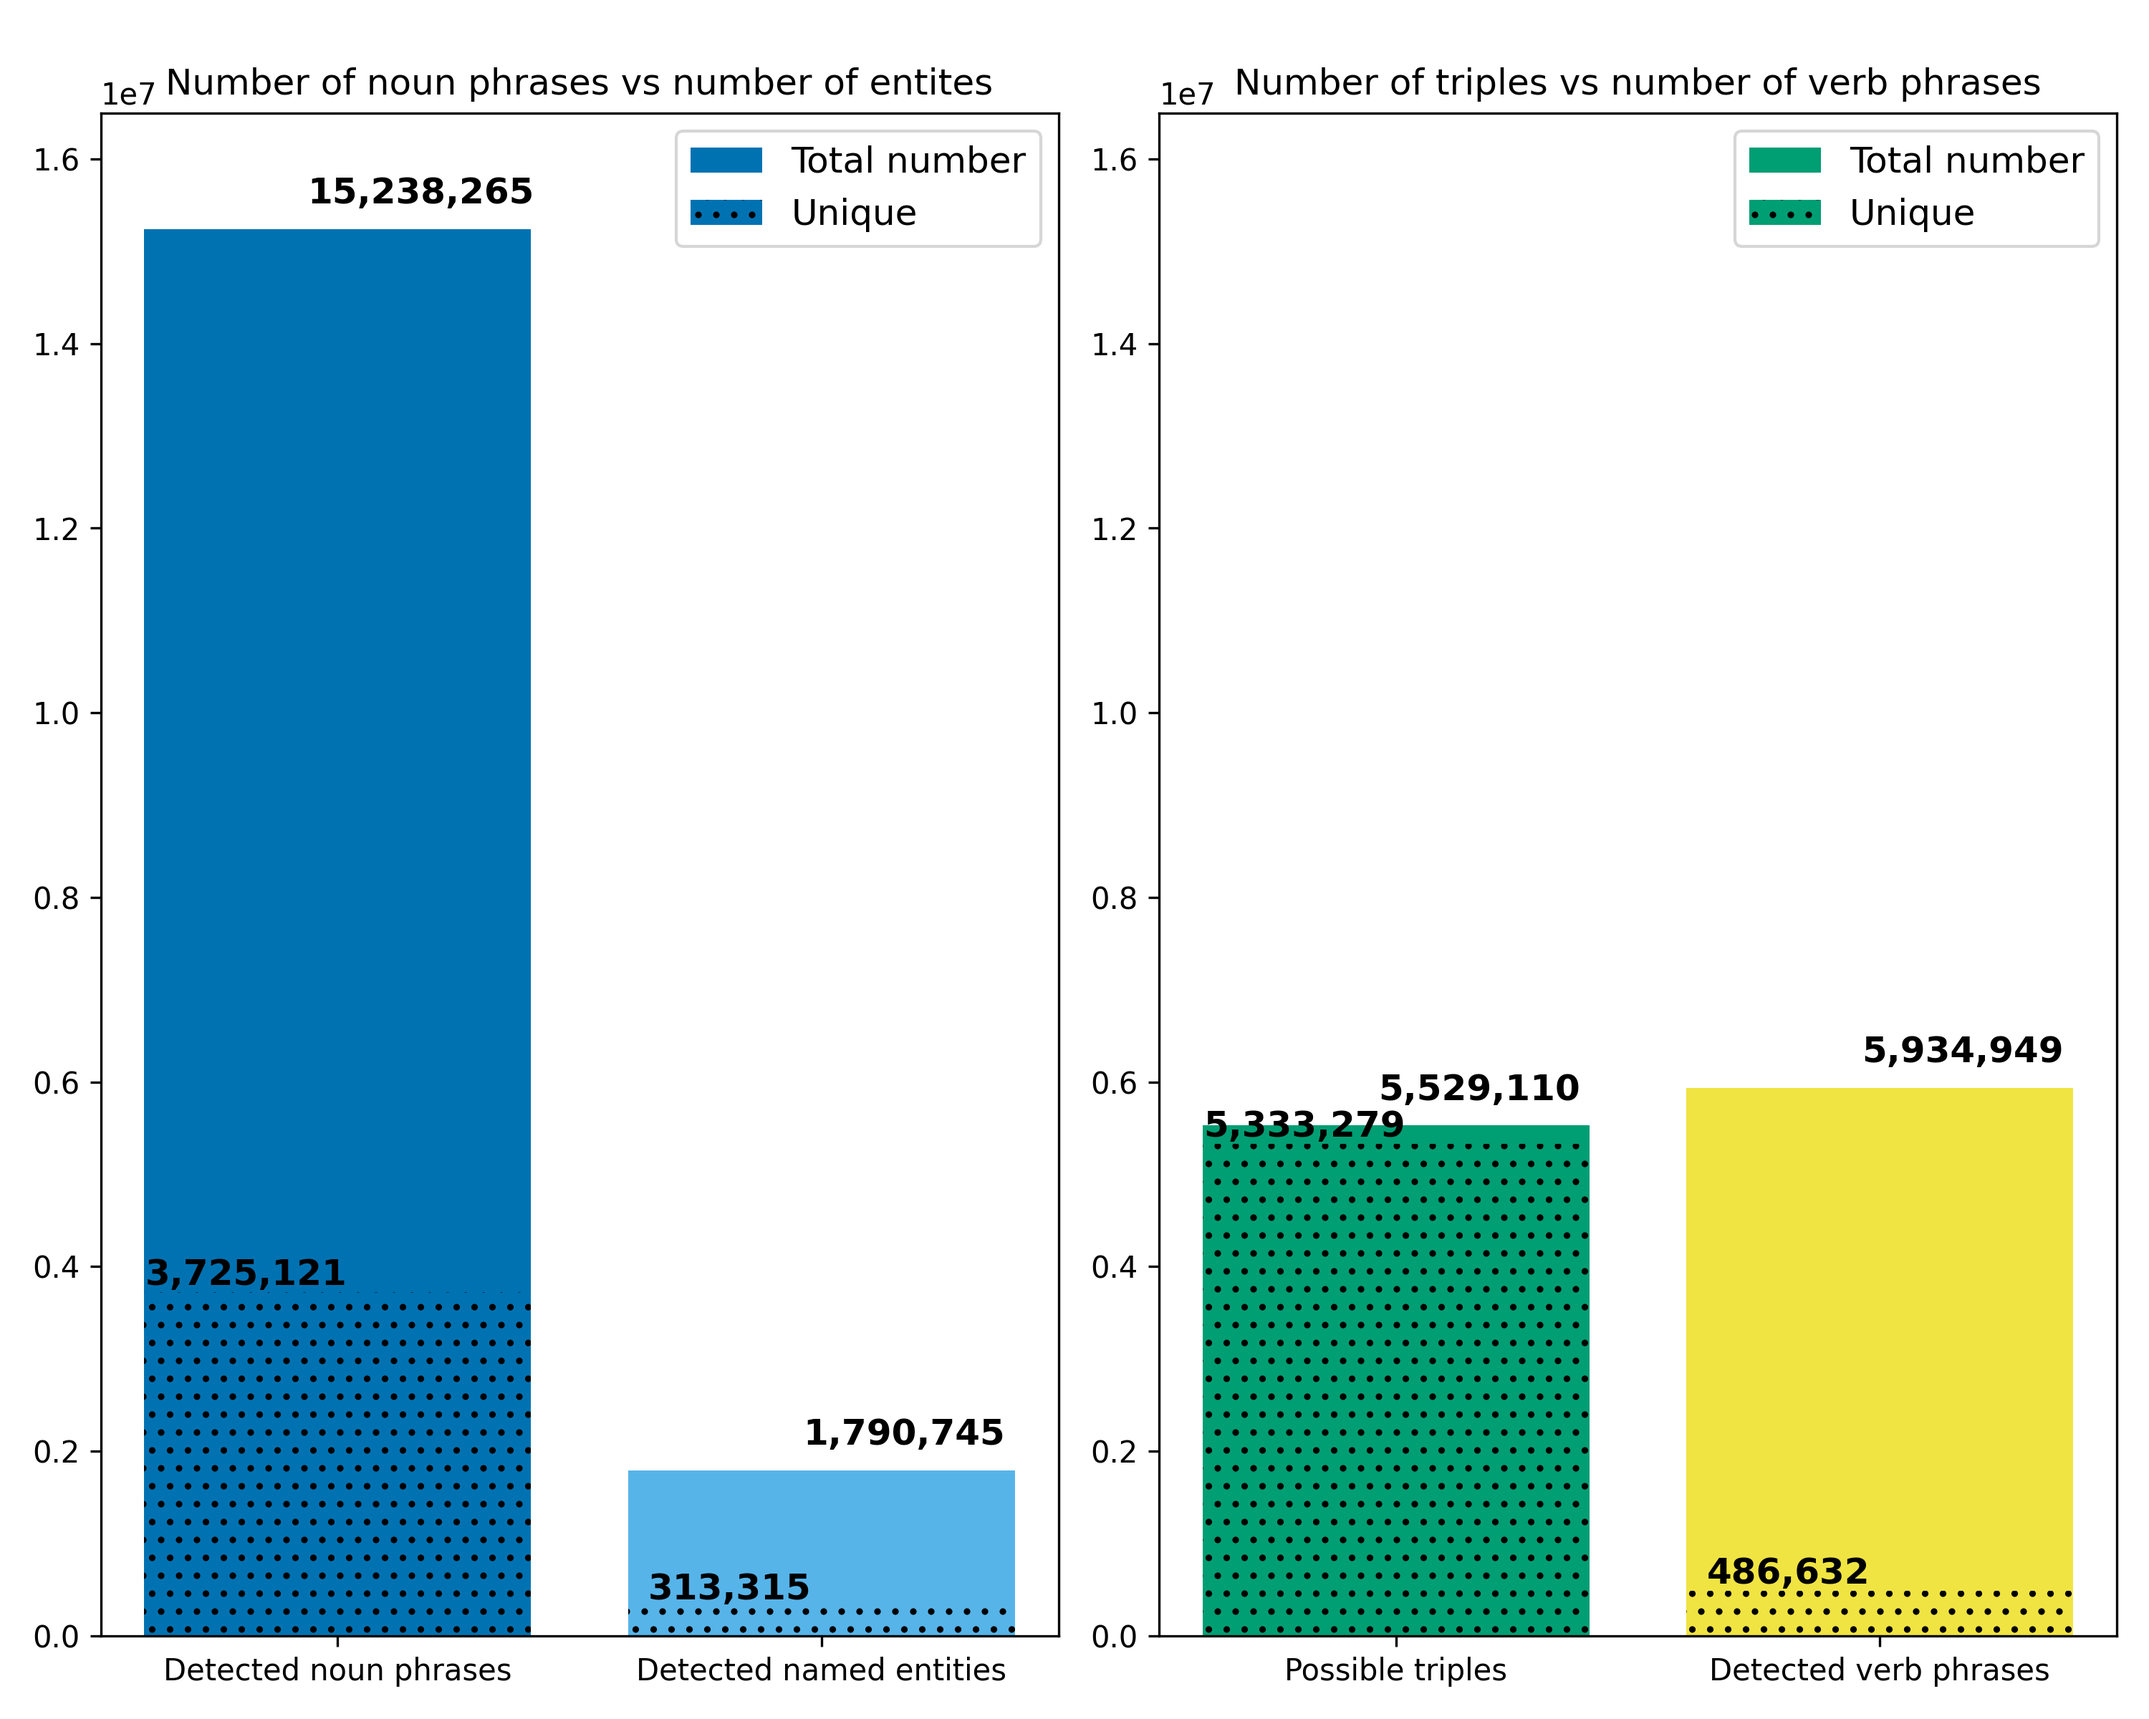
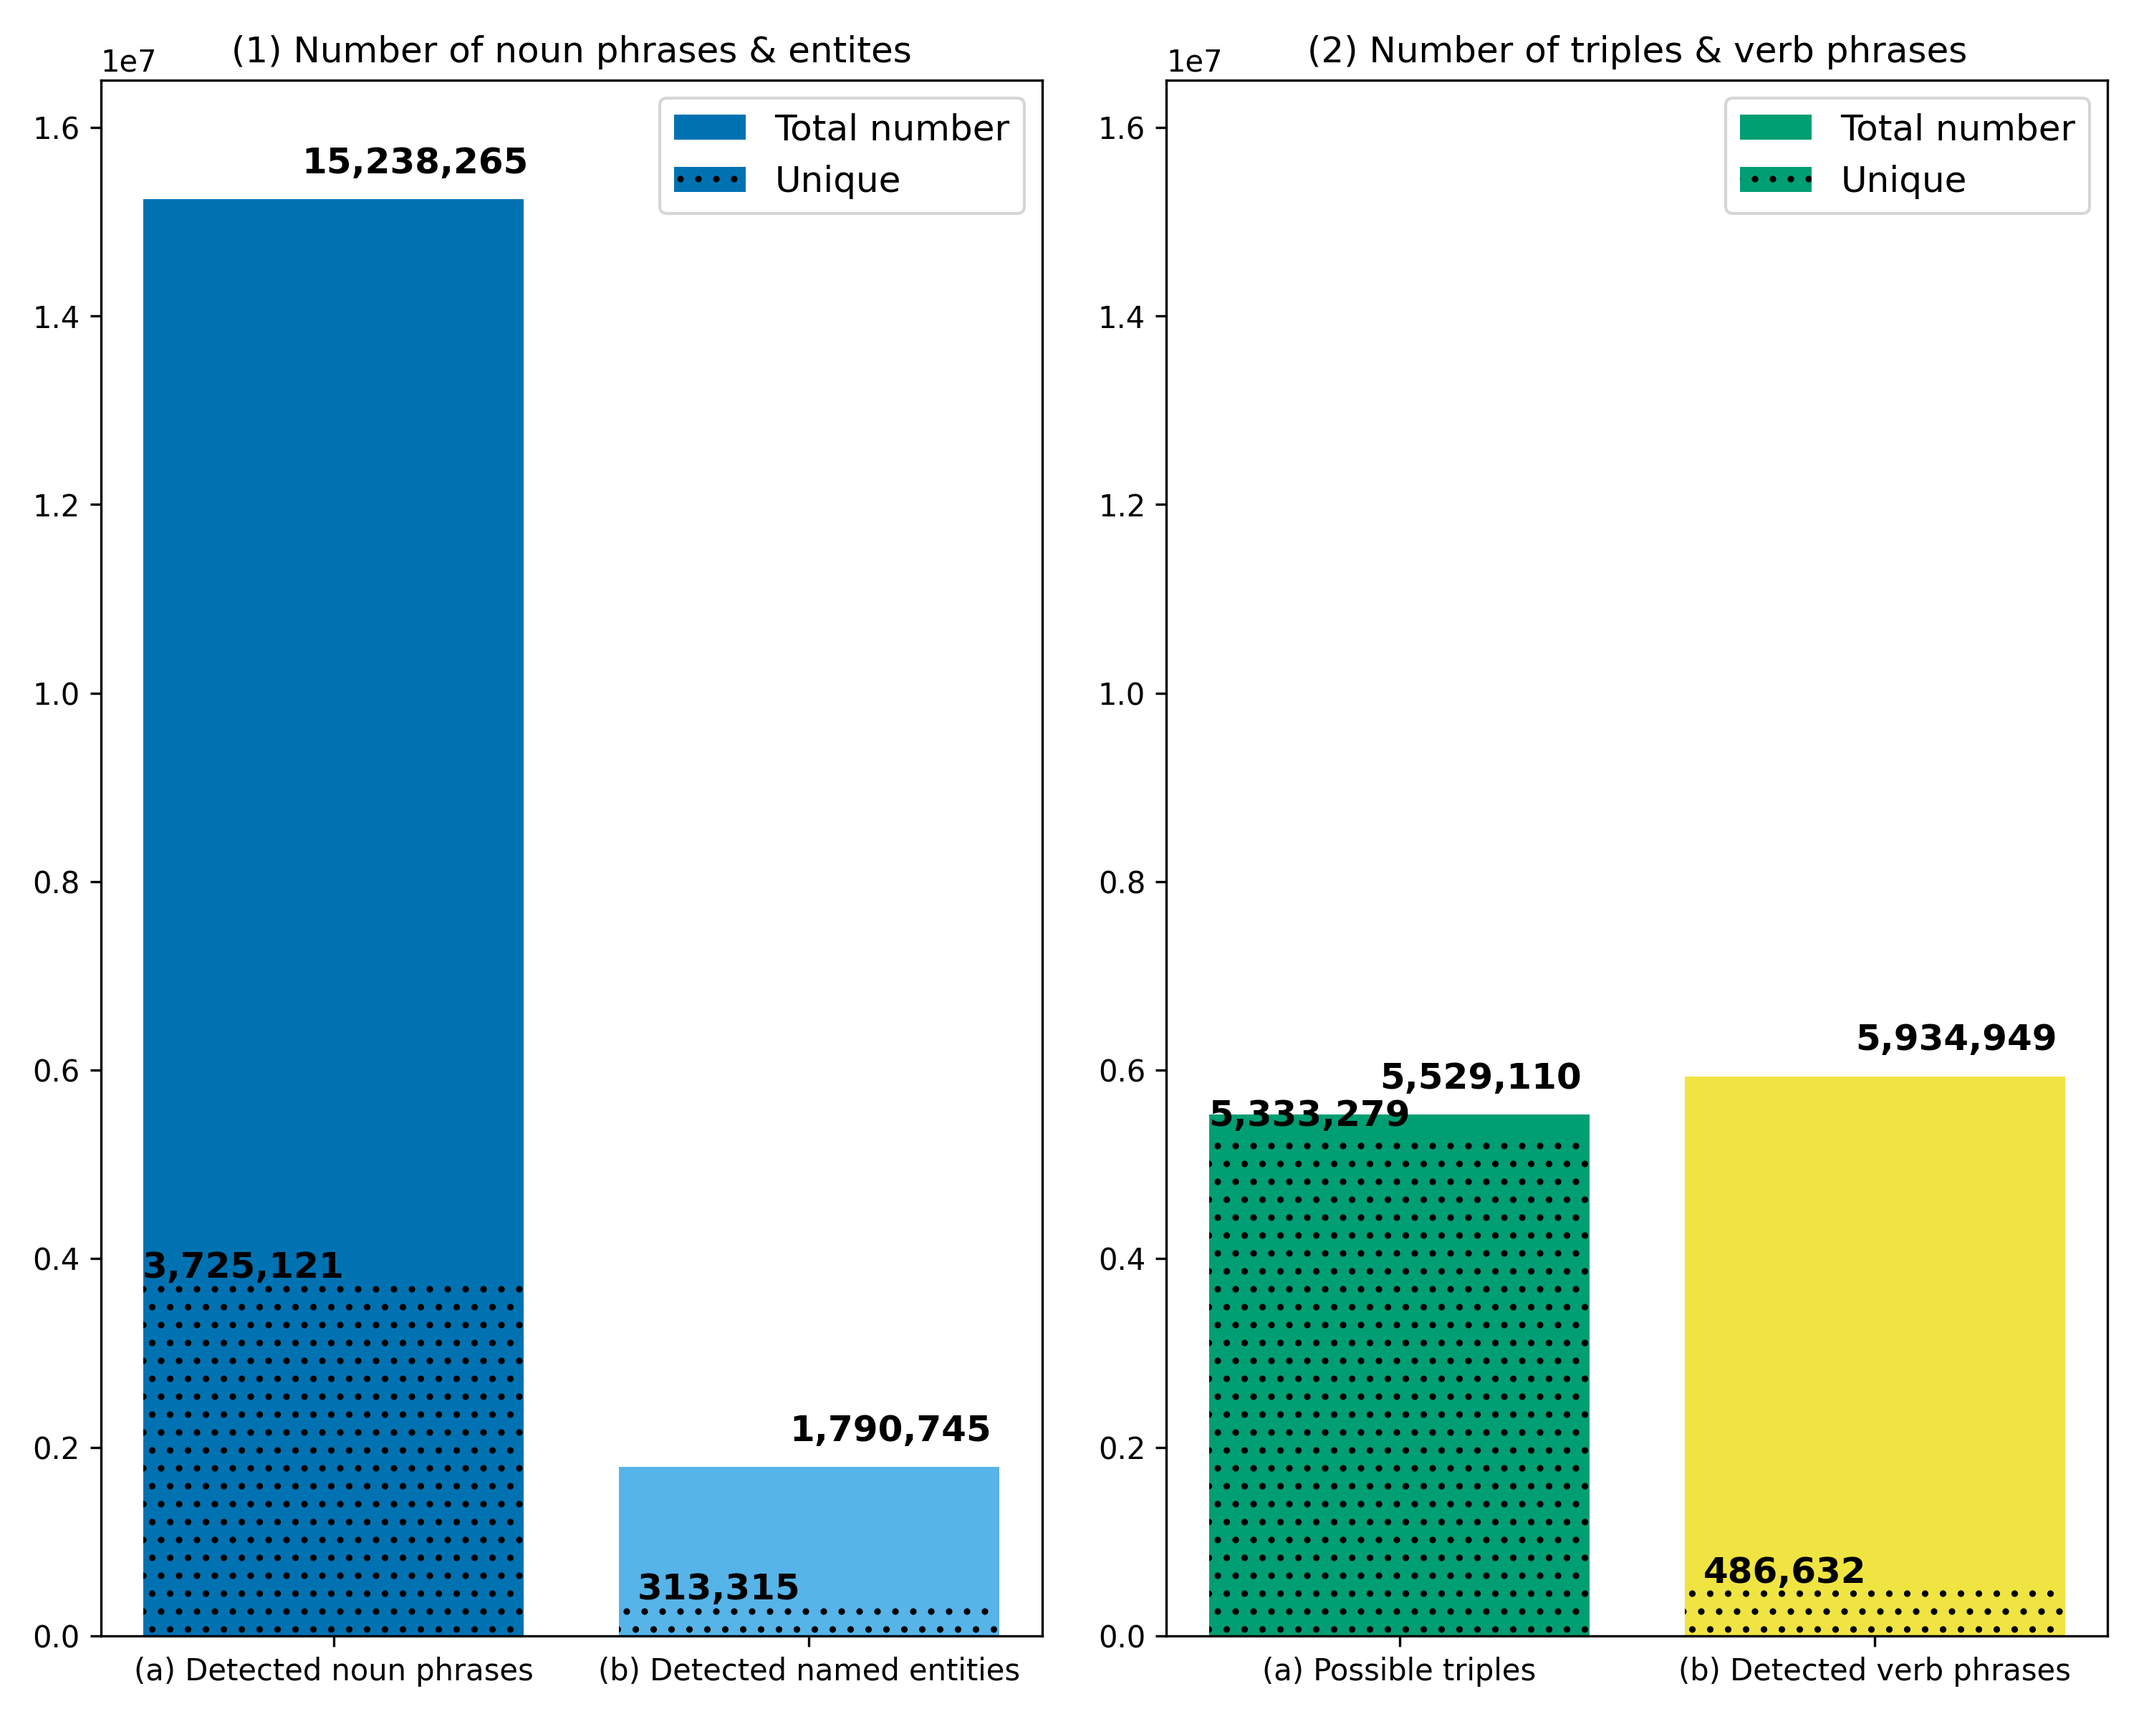
Added entity counts

diff --git a/PDF_TXT/REPORTS/barplot4.py b/PDF_TXT/REPORTS/barplot4.py
@@ -25,16 +25,16 @@ data = [
 ]
 
 labels = [
-    ["Detected noun phrases", "Detected named entities"],
+    ["(a) Detected noun phrases", "(b) Detected named entities"],
     ["Noun phrases / \nEntities\n(P)", "Noun phrases / \nEntities\n(E)", "Verbs\n(P)"],
-    ["Possible triples", "Detected verb phrases"],
+    ["(a) Possible triples", "(b) Detected verb phrases"],
     ["Number of triples", "Number of unique verbs"]
 ]
 
 titles = [
-    "Number of noun phrases vs number of entites", 
+    "(1) Number of noun phrases & entites", 
     "Average occurance per sentence\nAveraged by (P/E)", 
-    "Number of triples vs number of verb phrases",
+    "(2) Number of triples & verb phrases",
     "Number of possible triples & \nnumber of unique verbs"
 ]
 

diff --git a/PDF_TXT/REPORTS/try29.py b/PDF_TXT/REPORTS/try29.py
@@ -1,0 +1,15 @@
+import pandas as pd
+
+df = pd.read_pickle("unnamed.pickle_entity_tag_counts.pickle")
+
+print(df.info())
+
+# Assuming your DataFrame is named df
+top_entities_per_tag = df.groupby('Tag').apply(lambda x: x.nlargest(30, 'Count')).reset_index(drop=True)
+
+# Display the result
+print(top_entities_per_tag)
+
+
+for index, row in top_entities_per_tag.iterrows():
+    print(row['Entity'], '\t', row['Count'], '\t', row['Tag'])
